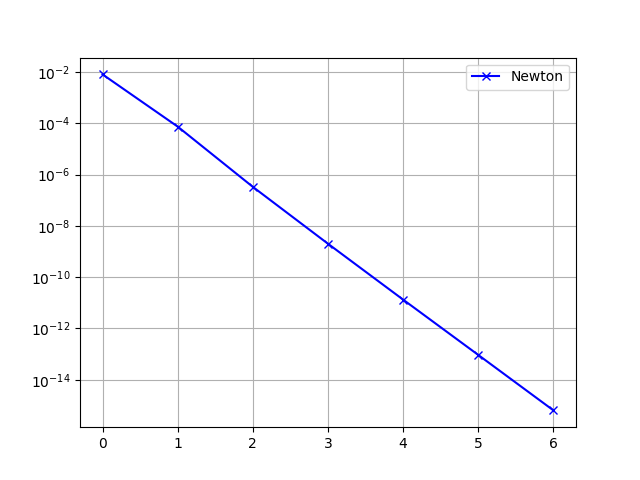
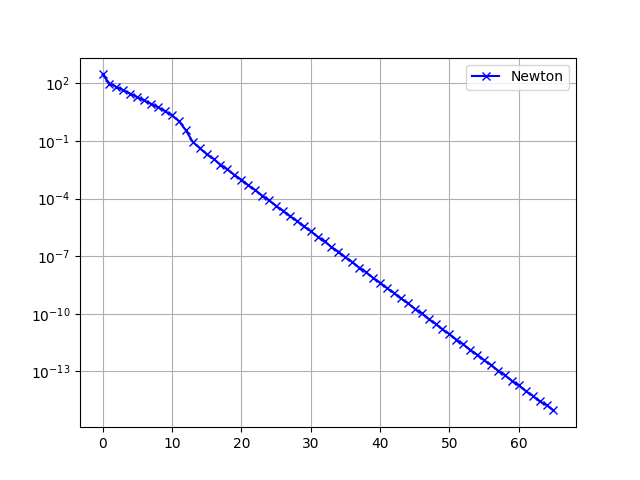
10.4. repaired

diff --git a/Ue10/Ex10_4.py b/Ue10/Ex10_4.py
@@ -23,25 +23,25 @@ def df(u,n,h):
     return ret
 
 if __name__ == "__main__":
-    n = 10
-    # n = int(input("n = "))
+    # n = 10
+    n = int(input("n = "))
     print("n = ",n," selected!")
-    h = n-1
+    h = 1/n-1
     A = 1/h**2 * (2*np.eye(n,n,dtype=float) - np.eye(n,n,k=1,dtype=float) - np.eye(n,n,k=1,dtype=float))
     b = np.zeros(n,dtype=float)
     ########
     print("-"*30)
     print("Now Newton: ")
     #x = np.linalg.solve(A,b)
-    x = np.ones(n,dtype=float)
-    #print("Starting guess x0: ",x)
+    x = np.zeros(n,dtype=float)
+    print("Starting guess x0: ",x)
     print("norm(g(x0)): ",np.linalg.norm(f(x,n,h,A)))
     print("-"*30)
     print("Iterating...please hold the line!")
     eps = 1e-15
     error = []
-    iterations = 100
-    for i in list(range(0,100)):
+    iterations = 1000
+    for i in list(range(0,iterations)):
         xn1 = netwonXD(A,x,f,df,n,h)
         error.append(np.linalg.norm(xn1 - x))
         if error[-1] < eps:# or np.allclose(x,xn1,rtol=eps):
@@ -53,7 +53,8 @@ if __name__ == "__main__":
     close = np.allclose(f(x,n,h,A),b,rtol=eps)
     print("Is it closed? ",close)
     print("Iterations: ", iterations)
-    print(error)
+    print("final form of x: ",x)
+    # print(error)
     plt.semilogy(np.arange(0,iterations,step=1),error,"bx-",label="Newton")
     plt.grid()
     plt.legend()
